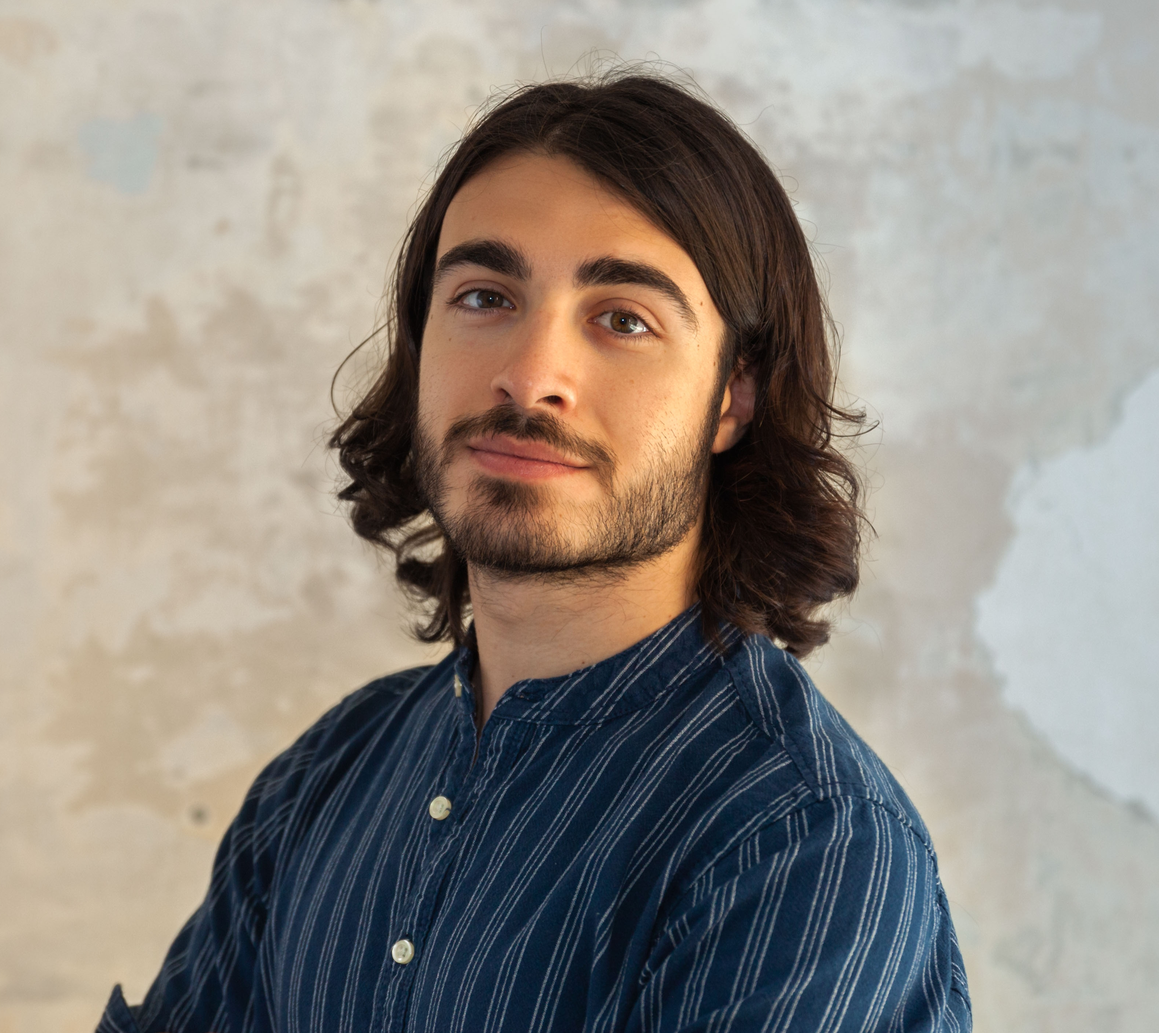
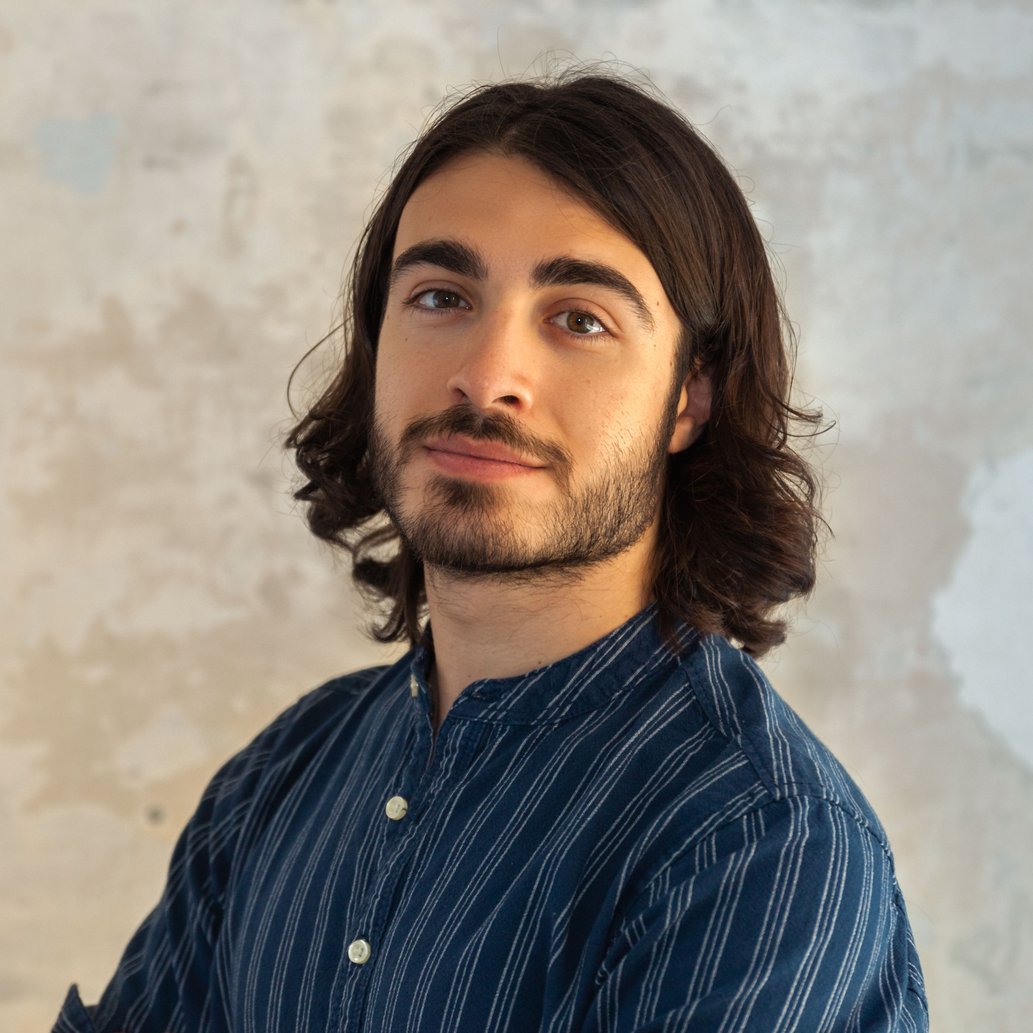
remove cv, square pic

diff --git a/_pages/cv.md b/_pages/cv.md
@@ -2,7 +2,7 @@
 layout: cv
 permalink: /cv/
 title: cv
-nav: true
+nav: false
 nav_order: 5
 cv_pdf: cv.pdf # you can also use external links here
 description: Resume
